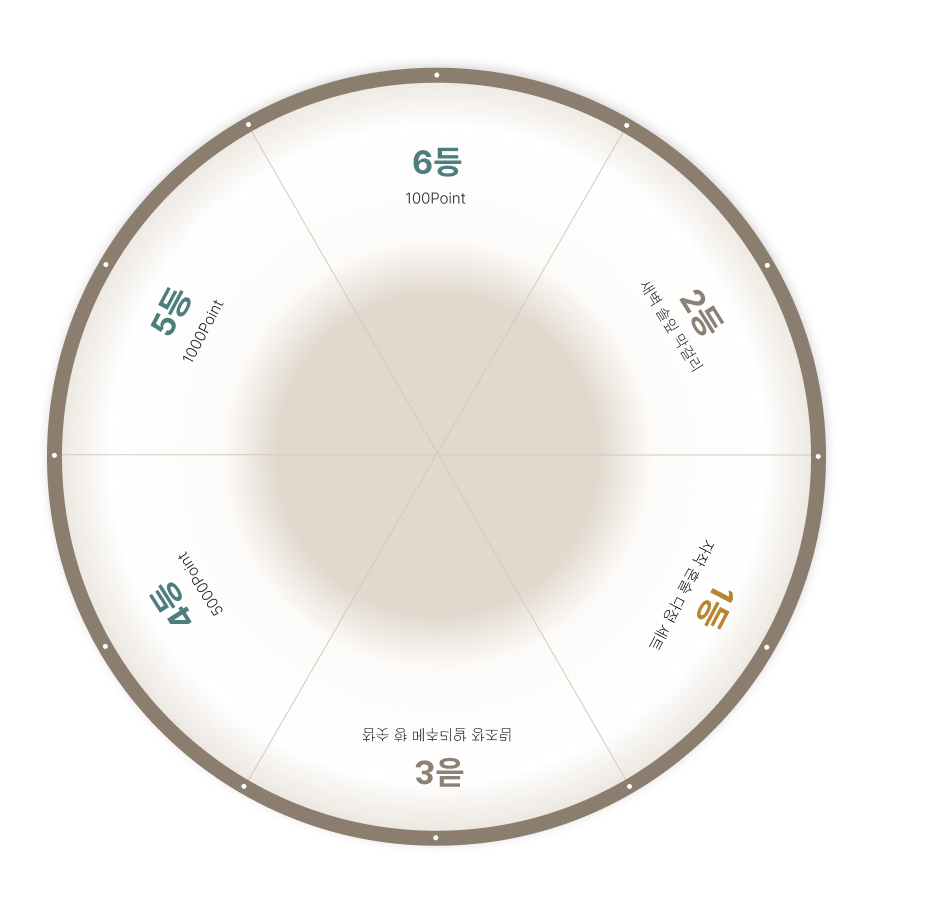
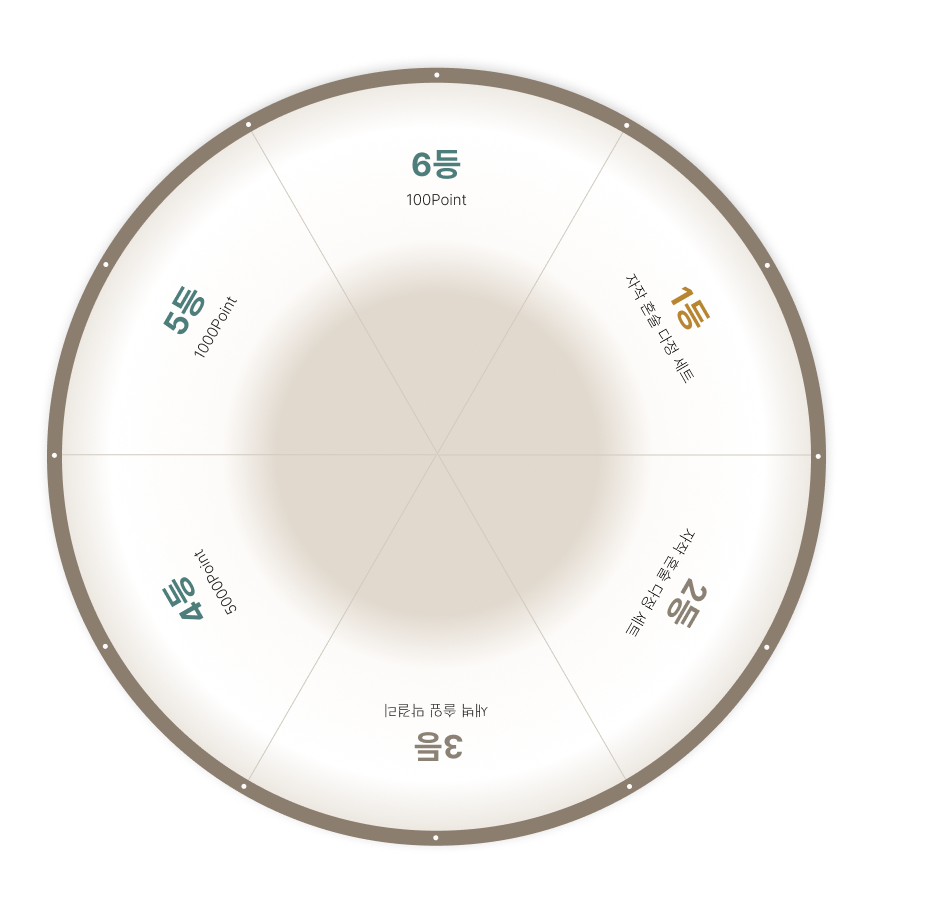
feat: 룰렛이벤트 제작-26.08.31_01_taeeun

diff --git a/src/pages/Event/RouletteEvent.module.scss b/src/pages/Event/RouletteEvent.module.scss
@@ -1,23 +1,30 @@
 @use '../../styles/variables' as *;
 @use '../../styles/mixins' as mixins;
 
-.page { min-height: 100vh; padding: $space-12 0 $space-24; color: $color-text-primary; background-color: $color-bg; background-image: var(--roulette-background); background-repeat: repeat; background-position: top center; background-size: 860px auto; font-family: $font-family-base; }
-.hero { @include mixins.container; display: grid; grid-template-columns: minmax(0, 1.65fr) minmax(330px, .75fr); gap: $space-6; align-items: center; min-height: 690px; }
-.gameArea { position: relative; min-width: 0; }
-.rouletteStage { position: relative; z-index: 2; width: min(100%, 690px); aspect-ratio: 1; margin-left: auto; transition: filter $transition-base ease; }
+.page { --roulette-runner-width: clamp(180px, 17vw, 280px); min-height: 100vh; padding: $space-12 0 $space-24; color: $color-text-primary; background-color: $color-bg; background-image: var(--roulette-background); background-repeat: repeat; background-position: top center; background-size: 860px auto; font-family: $font-family-base; }
+:global(body.jajak-roulette-page) { background-color: $color-bg; background-image: url('../../assets/images/eventPage/background2.jpg'); background-repeat: repeat; background-position: top center; background-size: 860px auto; }
+:global(body.jajak-roulette-spinning) { overflow: hidden; }
+:global(header) { transition: opacity .35s ease, transform .55s cubic-bezier(.4, 0, .2, 1); }
+:global(body.jajak-roulette-spinning header) { opacity: 0; transform: translateY(calc(-100% - 80px)); pointer-events: none; }
+.hero { @include mixins.container; position: relative; min-height: 690px; }
+.gameArea { position: relative; display: flex; justify-content: center; width: 100%; min-width: 0; }
+.runningTrail { position: fixed; z-index: $z-dropdown - 2; top: 50%; right: 0; left: calc(-1 * var(--roulette-runner-width)); height: $space-5; opacity: 0; visibility: hidden; pointer-events: none; background-image: radial-gradient(circle, $color-primary-light 0, $color-primary-light $space-1, transparent calc(#{$space-1} + 1px)); background-position: left center; background-size: $space-20 100%; background-repeat: repeat-x; clip-path: inset(0 0 0 100%); transform: translateY(-50%); }
+.runningTrack { position: fixed; z-index: $z-dropdown - 1; top: 50%; left: 0; width: var(--roulette-runner-width); aspect-ratio: 2 / 3; opacity: 0; visibility: hidden; pointer-events: none; transform: translate(100vw, -50%); }
+.runningFrame { position: absolute; inset: 0; width: 100%; height: 100%; object-fit: contain; opacity: 0; }
+.rouletteStage { position: relative; z-index: 2; width: min(100%, 800px); aspect-ratio: 948 / 908; margin-inline: auto; transition: filter $transition-base ease, transform .55s cubic-bezier(.4, 0, .2, 1); }
 .rouletteStage > img { position: absolute; inset: 0; width: 100%; height: 100%; object-fit: contain; pointer-events: none; }
 .rouletteBack { z-index: 1; }
-.rouletteWheel { z-index: 2; transform-origin: center; }
-.rouletteFront { z-index: 3; }
-.spinButton { position: absolute; z-index: 4; top: 50%; left: 50%; width: 31%; aspect-ratio: 1; color: $color-white; font-family: $font-family-display; font-size: $font-size-4xl; background: transparent; border-radius: 50%; transform: translate(-50%, -50%); transition: transform $transition-fast ease, color $transition-fast ease; }
-.spinButton:not(:disabled):hover { color: $color-bg; transform: translate(-50%, -50%) scale(1.05); }
+.rouletteWheel { z-index: 3; transform-origin: 46.04% 50%; will-change: transform; }
+.rouletteFront { z-index: 5; }
+.spinButton { @include mixins.flex-center; position: absolute; z-index: 6; top: 31.17%; left: 28.06%; width: 36.29%; height: 37.89%; padding: 0; color: $color-white; font-family: $font-family-display; font-size: $font-size-5xl; background: transparent; border-radius: 50%; transition: color $transition-fast ease, scale $transition-fast ease; }
+.spinButton:not(:disabled):hover { color: $color-primary-light; scale: 1.1; }
 .spinButton:disabled { cursor: default; }
-.makdong { position: absolute; z-index: 5; bottom: 2%; left: -8%; width: 47%; max-height: 590px; object-fit: contain; object-position: bottom; transition: opacity $transition-base ease; pointer-events: none; }
-.eventCard { display: flex; flex-direction: column; min-height: 610px; padding: $space-10; background: rgba($color-bg, .5); border: 1px solid rgba($color-border, .8); border-radius: $radius-lg; box-shadow: $shadow-sm; transition: opacity $transition-base ease; backdrop-filter: blur(1px); }
-.chanceRibbon { align-self: center; padding: $space-2 $space-8; color: $color-white; font-size: $font-size-md; background: $color-primary; clip-path: polygon(8% 0, 92% 0, 86% 50%, 92% 100%, 8% 100%, 14% 50%); }
-.eventCard h1 { margin-top: $space-5; font-family: $font-family-display; font-size: $font-size-4xl; text-align: center; }
+.makdong { position: absolute; z-index: 7; bottom: 5%; left: -10%; width: 50%; max-height: 550px; object-fit: contain; object-position: bottom; transition: opacity $transition-base ease; pointer-events: none; }
+.eventCard { position: absolute; z-index: 8; top: 50%; right: calc(50% - 50vw); display: flex; flex-direction: column; width: 650px;min-height: 610px; padding: $space-10 $space-30 $space-10 $space-10; background: rgba($color-bg, .9); border: 1px solid rgba($color-border, .8); border-radius: $radius-lg 0 0 $radius-lg; box-shadow: $shadow-sm; transition: opacity $transition-base ease; transform: translateY(-50%); backdrop-filter: blur(1px); }
+.chanceRibbon { align-self: center; padding: $space-2 $space-10; color: $color-white; font-size: $font-size-sm; background: $color-primary; clip-path: polygon(8% 0, 92% 0, 86% 50%, 92% 100%, 8% 100%, 14% 50%); }
+.eventCard h1 { margin-top: $space-5; font-family: $font-family-display; font-size: $font-size-5xl; text-align: center; }
 .description { margin-top: $space-10; font-size: $font-size-md; line-height: $line-height-relaxed; text-align: center; white-space: pre-line; }
-.eventMeta { margin-top: $space-8; padding: $space-2 $space-6; border: 1px solid $color-border; border-radius: $radius-lg; }
+.eventMeta { margin-top: $space-8; padding: $space-2 $space-6; border: 1px solid $color-border; border-radius: $radius-lg; background-color: rgba($color-bg,1);}
 .eventMeta div { display: grid; grid-template-columns: 125px 1fr; gap: $space-4; padding: $space-4 0; }
 .eventMeta div + div { border-top: 1px solid $color-border; }
 .eventMeta dt { color: $color-text-secondary; font-size: $font-size-sm; font-weight: $font-weight-semibold; }
@@ -31,17 +38,41 @@
 .prizeSection h2 { font-family: $font-family-display; font-size: $font-size-3xl; text-align: center; }
 .prizeSection h2 span { margin-inline: $space-3; color: $color-primary; }
 .prizeGrid { display: grid; grid-template-columns: repeat(6, minmax(0, 1fr)); gap: $space-3; margin-top: $space-12; }
-.prizeCard { position: relative; display: flex; flex-direction: column; align-items: center; min-height: 320px; padding: $space-10 $space-4 $space-5; text-align: center; background: rgba($color-bg, .9); border: 1px solid $color-border; border-radius: $radius-lg; }
+.prizeCard { position: relative; display: flex; flex-direction: column; align-items: center; min-height: 200px; padding: $space-5 $space-4 $space-5; text-align: center; background: rgba($color-bg,1); border: 1px solid $color-border; border-radius: $radius-lg; }
 .rank { @include mixins.flex-center; position: absolute; top: 0; left: 50%; width: 48px; aspect-ratio: 1; color: $color-white; font-size: $font-size-md; font-weight: $font-weight-bold; background: $color-primary; border-radius: 50%; transform: translate(-50%, -50%); }
 .firstRank { background: $color-warning; }
 .prizeCard h3 { display: flex; align-items: center; justify-content: center; min-height: 58px; font-size: $font-size-lg; line-height: $line-height-tight; }
-.prizeImage, .pointIcon { @include mixins.flex-center; width: 116px; aspect-ratio: 1; margin-top: $space-4; overflow: hidden; border-radius: 50%; }
+.prizeImage, .pointIcon { @include mixins.flex-center; width: 116px; aspect-ratio: 1; overflow: hidden; border-radius: 50%; }
 .prizeImage { background: $color-surface; }
 .prizeImage img { width: 100%; height: 100%; object-fit: cover; }
 .pointIcon { color: $color-text-secondary; font-size: $font-size-5xl; font-weight: $font-weight-medium; border: 5px solid $color-text-secondary; }
-.prizeCard > p { margin-top: auto; padding-top: $space-5; color: $color-text-secondary; font-size: $font-size-xs; line-height: $line-height-base; }
+.prizeCard > p { padding-top: $space-5; color: $color-text-secondary; font-size: $font-size-xs; line-height: $line-height-base; }
 .isSpinning .makdong, .isSpinning .eventCard, .isSpinning .prizeSection { opacity: 0; pointer-events: none; }
-.isSpinning .rouletteStage { z-index: 20; filter: drop-shadow(0 $space-5 $space-8 rgb(0 0 0 / 18%)); }
+.isSpinning .runningTrail { visibility: visible; opacity: 1; animation: revealRunningTrail 2.8s linear .14s forwards; }
+.isSpinning .runningTrack { visibility: visible; opacity: 1; animation: makdongRunAcross 2.8s linear forwards; }
+.isSpinning .runningFrame:nth-child(1) { animation: runningFrameOne .42s steps(1, end) infinite; }
+.isSpinning .runningFrame:nth-child(2) { animation: runningFrameTwo .42s steps(1, end) infinite; }
+.isSpinning .rouletteStage { z-index: $z-dropdown; filter: drop-shadow(0 $space-5 $space-8 rgb(0 0 0 / 18%)); transform: translate(var(--roulette-shift-x, 0), var(--roulette-shift-y, 0)); }
+
+@keyframes makdongRunAcross {
+  from { transform: translate(100vw, -50%); }
+  100% { transform: translate(-100%, -50%); }
+}
+
+@keyframes revealRunningTrail {
+  from { clip-path: inset(0 0 0 100%); }
+  to { clip-path: inset(0); }
+}
+
+@keyframes runningFrameOne {
+  0%, 49% { opacity: 1; }
+  50%, 100% { opacity: 0; }
+}
+
+@keyframes runningFrameTwo {
+  0%, 49% { opacity: 0; }
+  50%, 100% { opacity: 1; }
+}
 .modalBackdrop { @include mixins.flex-center; position: fixed; z-index: $z-modal; inset: 0; padding: $space-5; background: rgb(0 0 0 / 40%); }
 .resultModal { position: relative; width: min(100%, 570px); padding: $space-16 $space-12 $space-10; background: $color-bg; border-radius: $radius-xl; box-shadow: 0 $space-4 $space-12 rgb(0 0 0 / 18%); }
 .closeButton { position: absolute; top: $space-5; right: $space-5; color: $color-text-primary; font-size: $font-size-4xl; line-height: 1; }
@@ -61,9 +92,10 @@
 .resultModal > a { @include mixins.flex-center; width: min(100%, 290px); min-height: 58px; margin: $space-10 auto 0; color: $color-white; font-size: $font-size-lg; font-weight: $font-weight-semibold; background: $color-primary; border-radius: $radius-md; }
 
 @include mixins.tablet {
+  .page { --roulette-runner-width: clamp(160px, 22vw, 230px); }
   .page { padding-top: $space-8; }
-  .hero { grid-template-columns: minmax(0, 1.35fr) 320px; min-height: 600px; }
-  .eventCard { min-height: 540px; padding: $space-6; }
+  .hero { min-height: 0; }
+  .eventCard { position: static; width: 100%; min-height: 540px; margin-top: $space-8; padding: $space-6; transform: none; }
   .eventCard h1 { font-size: $font-size-3xl; }
   .description { margin-top: $space-6; font-size: $font-size-sm; }
   .eventMeta { padding-inline: $space-3; }
@@ -75,22 +107,24 @@
 }
 
 @include mixins.mobile {
-  .page { padding: $space-5 0 $space-20; background-size: 620px auto; }
-  .hero { grid-template-columns: 1fr; gap: $space-8; width: calc(100% - (#{$side-margin-mobile} * 2)); min-height: 0; }
+  .page { --roulette-runner-width: 150px; padding: $space-5 0 $space-20; background-size: 620px auto; }
+  .hero { width: calc(100% - (#{$side-margin-mobile} * 2)); min-height: 0; }
   .gameArea { padding-top: $space-8; }
   .rouletteStage { width: 100%; }
   .makdong { bottom: -2%; left: -9%; width: 47%; }
-  .spinButton { font-size: $font-size-2xl; }
-  .eventCard { min-height: 530px; padding: $space-6 $space-5; }
-  .chanceRibbon { padding-inline: $space-6; font-size: $font-size-sm; }
-  .eventCard h1 { font-size: $font-size-3xl; }
+  .runningTrack { top: 52%; }
+  .runningTrail { top: 52%; background-size: $space-16 100%; }
+  .spinButton { font-size: $font-size-4xl; }
+  .eventCard { position: static; width: 100%; min-height: 530px; margin-top: $space-8; padding: $space-6 $space-5; transform: none; }
+  .chanceRibbon { padding: $space-2 $space-8; font-size: $font-size-sm; }
+  .eventCard h1 { font-size: $font-size-4xl; }
   .description { margin-top: $space-6; font-size: $font-size-sm; }
   .eventMeta { padding-inline: $space-3; }
   .eventMeta div { grid-template-columns: 105px 1fr; gap: $space-2; }
   .prizeSection { margin-top: $space-12; padding: $space-10 $side-margin-mobile; }
   .prizeSection h2 { font-size: $font-size-2xl; }
   .prizeGrid { grid-template-columns: repeat(2, minmax(0, 1fr)); gap: $space-8 $space-3; margin-top: $space-10; }
-  .prizeCard { min-height: 300px; padding-inline: $space-3; }
+  .prizeCard { min-height: 250px; padding: $space-5; }
   .prizeCard h3 { font-size: $font-size-md; }
   .prizeImage, .pointIcon { width: 104px; }
   .resultModal { padding: $space-12 $space-5 $space-8; }

diff --git a/src/pages/Event/RouletteEvent.jsx b/src/pages/Event/RouletteEvent.jsx
@@ -11,6 +11,8 @@ import rouletteBack from '../../assets/images/eventPage/roulette3.png'
 import rouletteWheel from '../../assets/images/eventPage/roulette2.png'
 import rouletteFront from '../../assets/images/eventPage/roulette1.png'
 import makdong from '../../assets/characters/M007_Poses07.png'
+import running2 from '../../assets/images/eventPage/running2.png'
+import running3 from '../../assets/images/eventPage/running3.png'
 import fallbackGift from '../../assets/images/products/product24.png'
 import fallbackLiquor from '../../assets/images/products/product2.png'
 import fallbackFood from '../../assets/images/products/product19.png'
@@ -29,12 +31,12 @@ const PRIZE_WEIGHTS = {
   first: {
     rank: 1, weight: 1, type: 'product', name: '자작 혼술 다정 세트',
     productId: 'gft_002', description: '전통주와 안주로 구성된 다정한 혼술 세트',
-    fallbackImage: fallbackGift, wheelAngle: 120,
+    fallbackImage: fallbackGift, wheelAngle: 60,
   },
   second: {
     rank: 2, weight: 4, type: 'product', name: '새벽 솔잎 막걸리',
     productId: 'liq_002', description: '막동이가 고른 은은한 솔향의 막걸리',
-    fallbackImage: fallbackLiquor, wheelAngle: 60,
+    fallbackImage: fallbackLiquor, wheelAngle: 120,
   },
   third: {
     rank: 3, weight: 10, type: 'product', name: '참숯 향 메추리알 장조림',
@@ -83,6 +85,8 @@ const formatToday = () =>
 const RouletteEvent = () => {
   const event = eventsData[0].event
   const wheelRef = useRef(null)
+  const stageRef = useRef(null)
+  const currentRotationRef = useRef(0)
   const [user, setUser] = useState(null)
   const [products, setProducts] = useState([])
   const [hasParticipated, setHasParticipated] = useState(false)
@@ -126,6 +130,18 @@ const RouletteEvent = () => {
       active = false
       unsubscribe()
     }
+  }, [])
+
+  useEffect(() => {
+    document.body.classList.toggle('jajak-roulette-spinning', isSpinning)
+
+    return () => document.body.classList.remove('jajak-roulette-spinning')
+  }, [isSpinning])
+
+  useEffect(() => {
+    document.body.classList.add('jajak-roulette-page')
+
+    return () => document.body.classList.remove('jajak-roulette-page')
   }, [])
 
   const prizesWithImages = useMemo(
@@ -173,6 +189,32 @@ const RouletteEvent = () => {
     })
   }
 
+  const animateWheel = (prize) => new Promise((resolve) => {
+    const wheel = wheelRef.current
+    const landingOffset = (Math.random() * 44) - 22
+    const landingAngle = (prize.wheelAngle + landingOffset + 360) % 360
+    const currentRotation = currentRotationRef.current
+    const finalAdjustment = (360 - ((currentRotation + landingAngle) % 360)) % 360
+    const fullSpins = 5 + Math.floor(Math.random() * 4)
+    const finalRotation = currentRotation + (fullSpins * 360) + finalAdjustment
+    currentRotationRef.current = finalRotation
+
+    const finish = () => {
+      wheel.removeEventListener('transitionend', handleTransitionEnd)
+      resolve()
+    }
+    const handleTransitionEnd = (eventObject) => {
+      if (eventObject.propertyName === 'transform') finish()
+    }
+
+    wheel.addEventListener('transitionend', handleTransitionEnd)
+    wheel.style.transition = 'transform 4600ms cubic-bezier(.45, 0, .15, 1)'
+    requestAnimationFrame(() => {
+      wheel.style.transform = `rotate(${finalRotation}deg)`
+    })
+    setTimeout(finish, 4800)
+  })
+
   const spin = async () => {
     if (isSpinning || isSaving || hasParticipated) return
     if (!user) {
@@ -182,34 +224,24 @@ const RouletteEvent = () => {
 
     const prize = drawPrize()
     const prizeWithImage = prizesWithImages.find((item) => item.rank === prize.rank)
+    const stageBounds = stageRef.current.getBoundingClientRect()
+    const horizontalShift = (window.innerWidth / 2) - (stageBounds.left + (stageBounds.width / 2))
+    const verticalShift = (window.innerHeight / 2) - (stageBounds.top + (stageBounds.height / 2))
+    stageRef.current.style.setProperty('--roulette-shift-x', `${horizontalShift}px`)
+    stageRef.current.style.setProperty('--roulette-shift-y', `${verticalShift}px`)
     setErrorMessage('')
     setIsSaving(true)
+    setIsSpinning(true)
+    const animation = animateWheel(prize)
 
     try {
-      await saveParticipation(prize)
+      await Promise.all([saveParticipation(prize), animation])
       setHasParticipated(true)
-      setIsSpinning(true)
       setIsSaving(false)
-
-      const finalRotation = (360 * 8) + (360 - prize.wheelAngle)
-      const animation = wheelRef.current.animate(
-        [
-          { transform: 'rotate(0deg)', offset: 0 },
-          { transform: `rotate(${finalRotation * 0.04}deg)`, offset: 0.14 },
-          { transform: `rotate(${finalRotation * 0.78}deg)`, offset: 0.62 },
-          { transform: `rotate(${finalRotation}deg)`, offset: 1 },
-        ],
-        {
-          duration: 5200,
-          easing: 'cubic-bezier(.18,.72,.18,1)',
-          fill: 'forwards',
-        }
-      )
-
-      await animation.finished
       setIsSpinning(false)
       setResult(prizeWithImage)
     } catch (error) {
+      await animation.catch(() => {})
       setIsSaving(false)
       setIsSpinning(false)
 
@@ -227,11 +259,17 @@ const RouletteEvent = () => {
       className={`${styles.page} ${isSpinning ? styles.isSpinning : ''}`}
       style={{ '--roulette-background': `url(${backgroundImage})` }}
     >
+      <div className={styles.runningTrail} aria-hidden="true" />
+      <div className={styles.runningTrack} aria-hidden="true">
+        <img className={styles.runningFrame} src={running2} alt="" />
+        <img className={styles.runningFrame} src={running3} alt="" />
+      </div>
+
       <section className={styles.hero} aria-label="막동이 룰렛 이벤트">
         <div className={styles.gameArea}>
           <img className={styles.makdong} src={makdong} alt="룰렛을 소개하는 막동이" />
 
-          <div className={styles.rouletteStage}>
+          <div ref={stageRef} className={styles.rouletteStage}>
             <img className={styles.rouletteBack} src={rouletteBack} alt="" />
             <img ref={wheelRef} className={styles.rouletteWheel} src={rouletteWheel} alt="1등부터 6등까지의 경품 룰렛" />
             <img className={styles.rouletteFront} src={rouletteFront} alt="" />
@@ -242,7 +280,7 @@ const RouletteEvent = () => {
               disabled={isSpinning || isSaving || hasParticipated}
               aria-label="룰렛 돌리기"
             >
-              {isSaving ? '준비 중' : hasParticipated ? '참여 완료' : '클릭!'}
+              {isSpinning || isSaving ? '추첨중...' : hasParticipated ? '참여 완료' : '클릭!'}
             </button>
           </div>
         </div>
